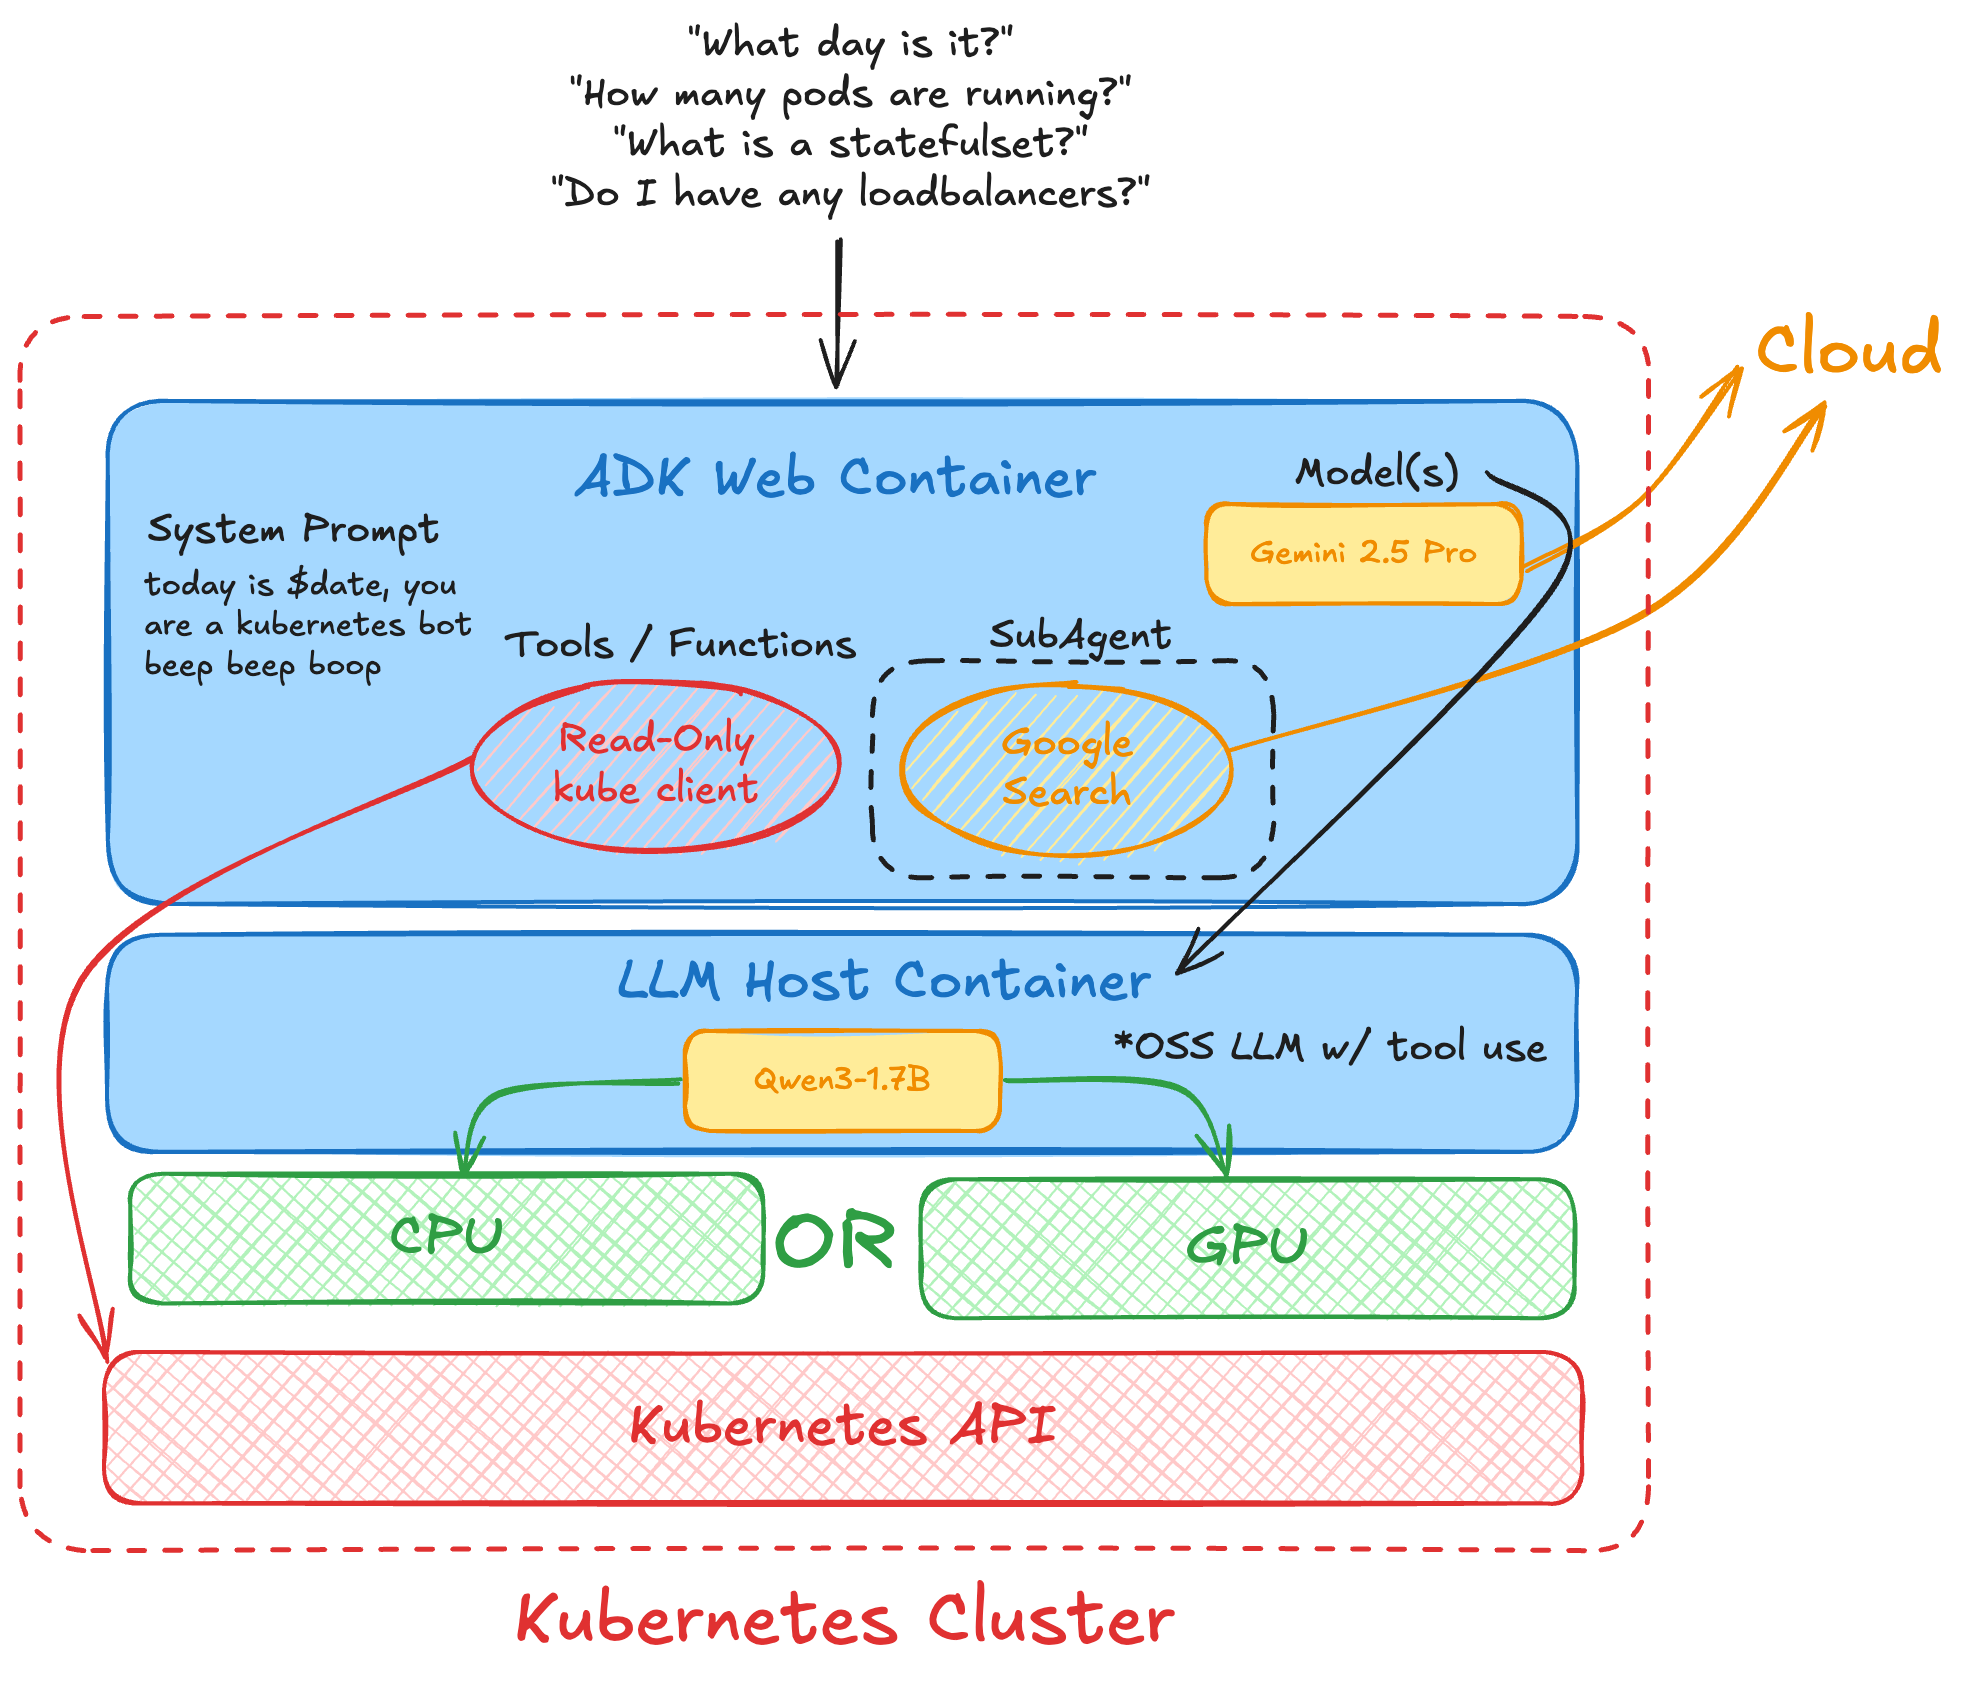
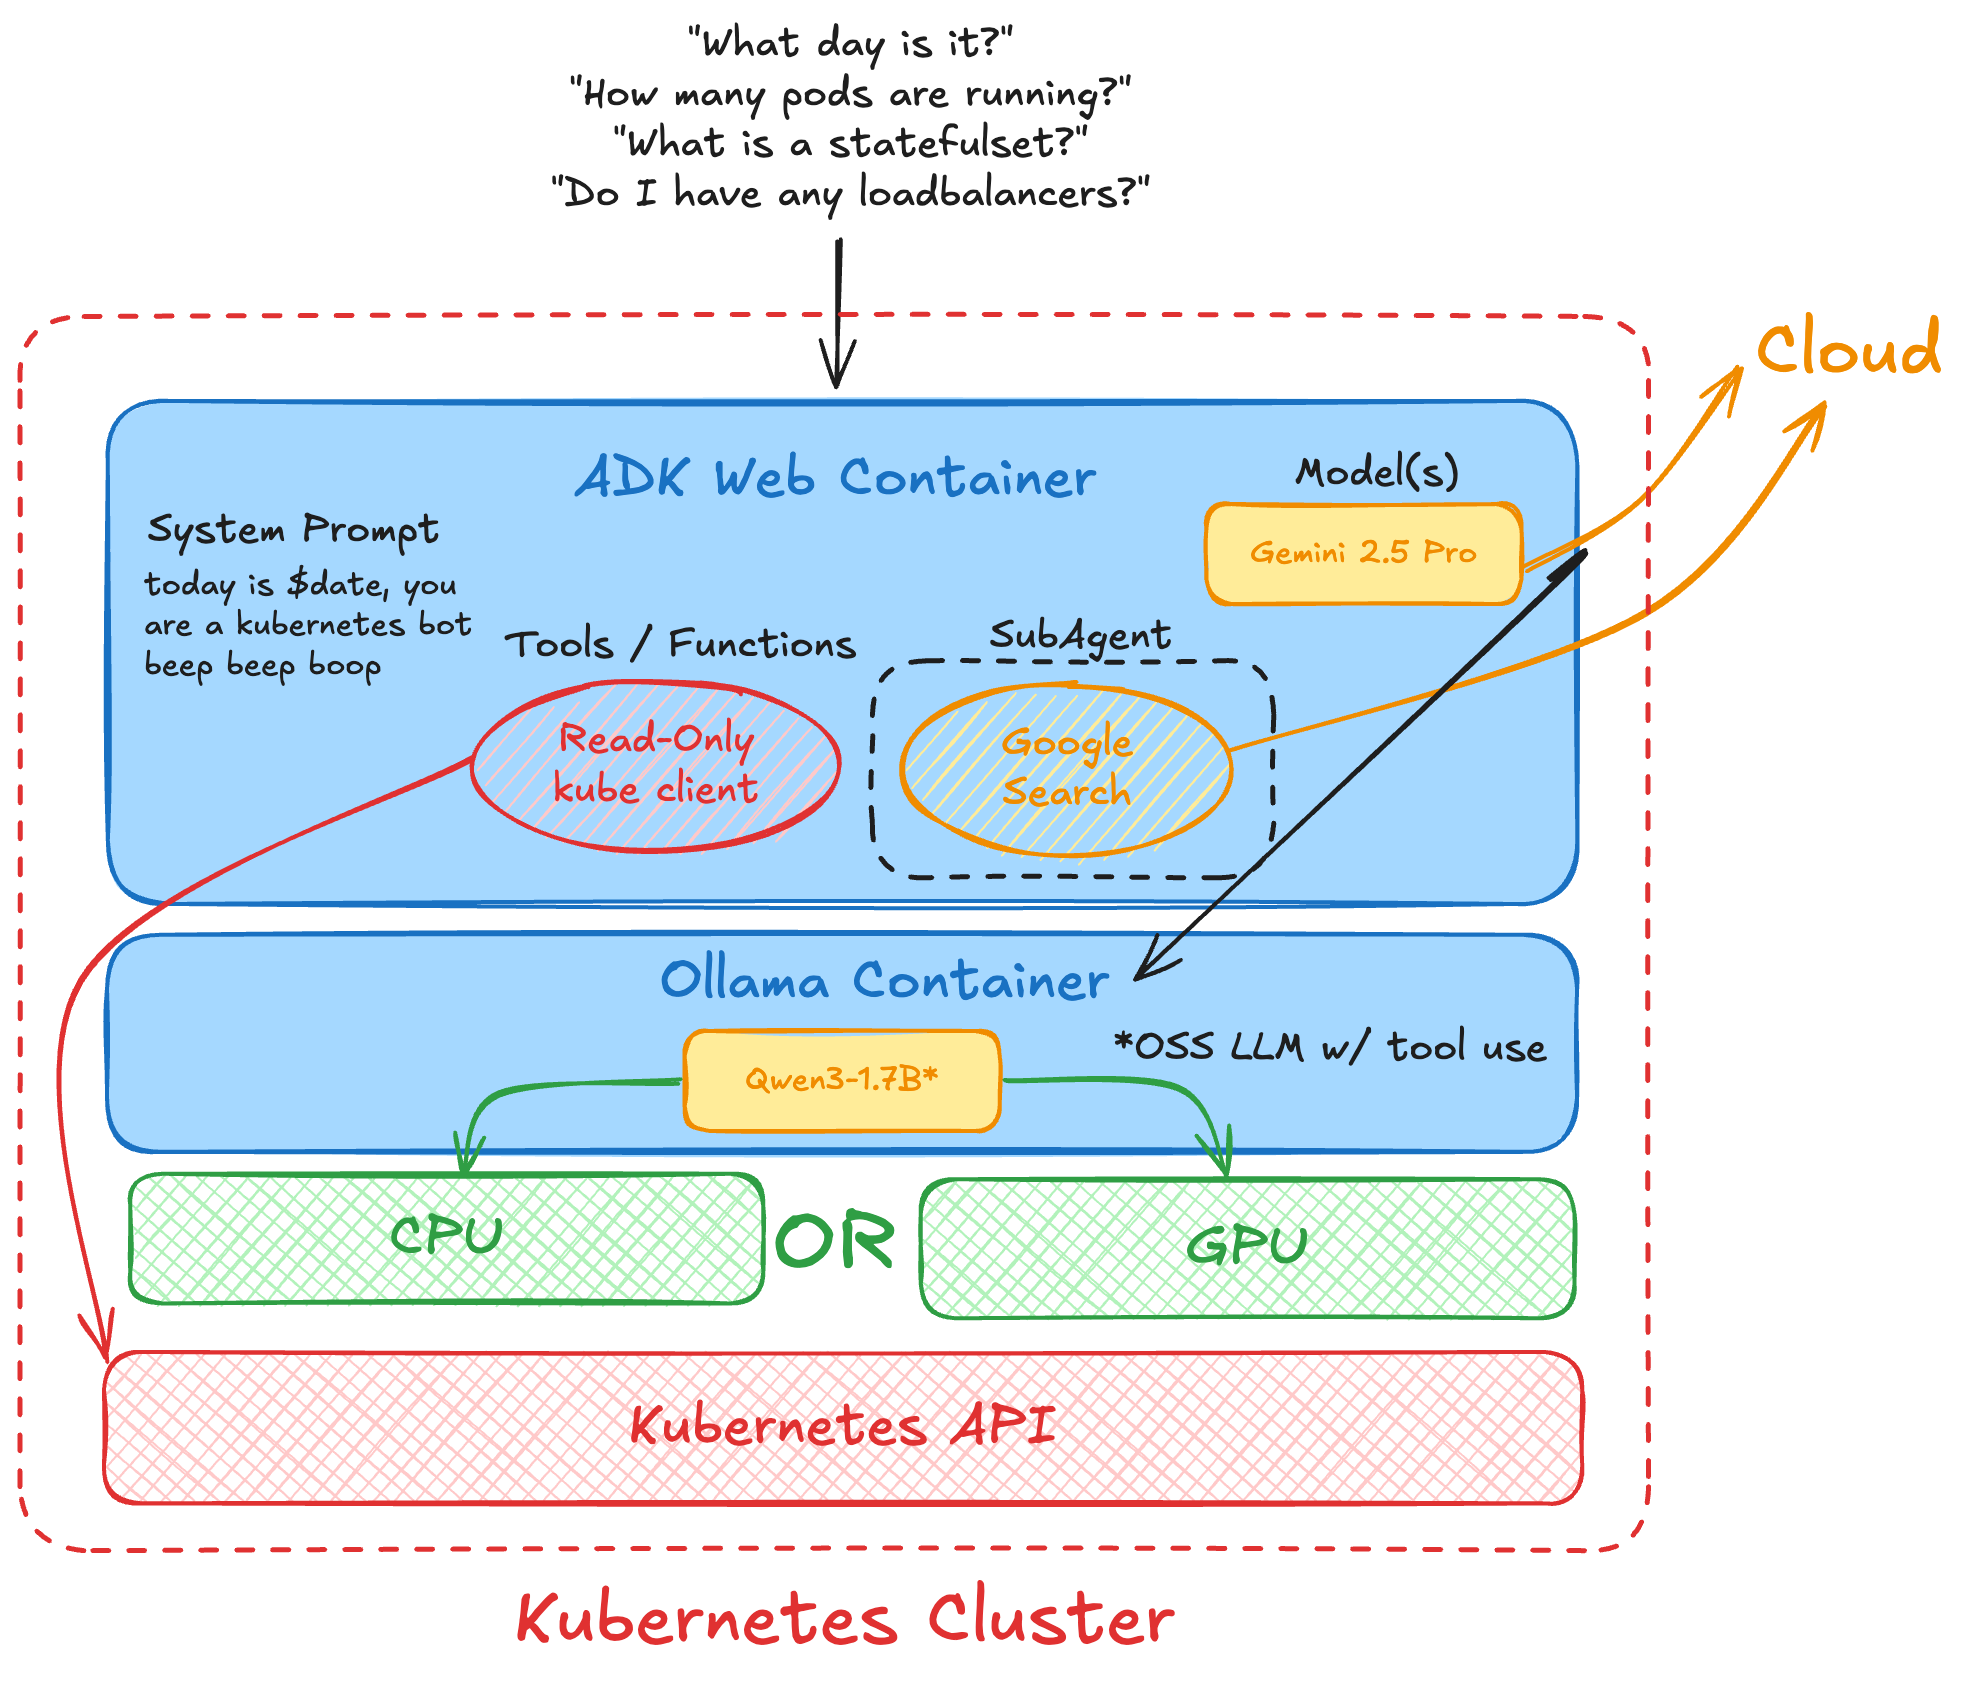
mvp

diff --git a/README.md b/README.md
@@ -2,7 +2,11 @@
 
 Google ADK agent for Kubernetes cluster interaction. Supports cloud (Google Gemini) and local (OpenAI-compatible) LLMs.
 
-![Architecture diagram](pics/arch.png)
+![Running on Kubernetes](pics/arch.png)
+
+ADK Web Container:
+
+![Architecture diagram](pics/adk-arch.png)
 
 ## Features
 
@@ -17,6 +21,29 @@ Google ADK agent for Kubernetes cluster interaction. Supports cloud (Google Gemi
 - Valid kubeconfig or in-cluster permissions
 - **Cloud LLM**: Google AI Studio API key
 - **Local LLM**: OpenAI-compatible endpoint (LM Studio, Ollama, etc.)
+
+## The importance of the `LLM_TYPE` variable
+
+The code is written to demonstrate both cloud and local LLM features. To switch between features you can set `cloud` or `local`. By setting:
+
+```bash
+LLM_TYPE=cloud
+```
+
+The ADK agent leverages the cloud (Gemini) and by setting:
+
+```bash
+LLM_TYPE=local
+```
+
+The agent leverages local LLM at the endpoint of:
+
+```bash
+LM_STUDIO_API_BASE=YOUR_HTTP_URL_V1_API
+LM_STUDIO_MODEL=YOUR_MODEL_REF
+```
+
+Look at the `.env-sample` for more ideas, most of these variables are set in the `docker run` command or in the kubernetes yaml.
 
 ## Quick Start
 
@@ -47,9 +74,20 @@ docker run \
 
 # Access UI: http://localhost:8082
 
+# Run using a local LLM (ollama) - or use the host / service name in cluster ollama.svc.xxx
+
+# (optional) run ollama instance
+docker run -d --name ollama --platform=linux/arm64/v8 \
+  -p 11434:11434 -v ollama:/root/.ollama ollama/ollama:latest
+
+docker exec -it ollama ollama pull qwen3:1.7b
+
 # Run using a local LLM
-export LM_STUDIO_API_BASE=http://127.0.0.1:1234/v1/
-export LM_STUDIO_MODEL=qwen/qwen3-1.7b
+export LM_STUDIO_API_BASE=http://localhost:11434/v1/
+# export LM_STUDIO_API_BASE=http://127.0.0.1:1234/v1/
+
+#export LM_STUDIO_MODEL=qwen/qwen3-1.7b # for LM Studio
+export LM_STUDIO_MODEL=qwen3:1.7b # for Ollama
 
 docker run \
   --name adk-local-test \
@@ -77,21 +115,81 @@ The `k8s-deployment.yaml` includes:
 - ClusterRole and ClusterRoleBinding
 - Deployment configuration
 
+![Running on Kubernetes](pics/arch.png)
+
+Optionally deploy a local Ollama server:
+
+```bash
+cat <<EOF | kubectl apply -f -
+apiVersion: apps/v1
+kind: Deployment
+metadata:
+  name: ollama
+spec:
+  replicas: 1
+  selector:
+    matchLabels:
+      app: ollama
+  template:
+    metadata:
+      labels:
+        app: ollama
+    spec:
+      containers:
+        - name: ollama
+          image: ollama/ollama:latest
+          ports:
+            - containerPort: 11434
+          volumeMounts:
+            - name: ollama-data
+              mountPath: /root/.ollama
+      volumes:
+        - name: ollama-data
+          emptyDir: {}
+---
+apiVersion: v1
+kind: Service
+metadata:
+  name: ollama
+spec:
+  selector:
+    app: ollama
+  ports:
+    - port: 11434
+      targetPort: 11434
+      protocol: TCP
+  type: ClusterIP
+EOF
+
+# wait for it to ready up:
+kubectl get pods --watch
+
+# pull a model to use:
+kubectl exec -it deploy/ollama -- ollama pull qwen3:1.7b
+```
+
 **Deploy:**
 ```bash
-export GOOGLE_API_KEY="your-api-key"
+# Clone repo
+git clone https://github.com/jimangel/adk-local-gemma.git
+cd adk-local-gemma
 
-# 1. Create API key secret
+# (optional, or if using cloud) create API key secret
+export GOOGLE_API_KEY="your-api-key"
 kubectl create secret generic adk-secrets \
   --from-literal=GOOGLE_API_KEY=${GOOGLE_API_KEY}
+```
 
-# 2. Apply manifest
+> **Tweaking / Configuration:** Modify environment variables in `k8s-deployment.yaml` (like model path / etc if needed)
+
+```bash
+# Apply manifest (defaults to local)
 kubectl apply -f k8s-deployment.yaml
 ```
 
 **Access service:**
 ```bash
-# Option A: Port forward
+# Port forward
 kubectl port-forward svc/adk-local-gemma 8081:8081
 ```
 
@@ -104,16 +202,5 @@ kubectl delete secret adk-secrets
 kubectl exec -it deploy/adk-local-gemma -- sh
 ```
 
-**Tweaking / Configuration:**
 
-Modify environment variables in `k8s-deployment.yaml`:
 
-```yaml
-env:
-- name: LLM_TYPE
-  value: "local"  # or "local"
-- name: LM_STUDIO_MODEL
-  value: "qwen/qwen3-1.7b"
-- name: LM_STUDIO_API_BASE
-  value: "http://127.0.0.1:1234/v1"  # for local LLMs
-```

diff --git a/CONTRIBUTING.md b/CONTRIBUTING.md
@@ -140,3 +140,23 @@ docker tag adk-local-gemma:latest ghcr.io/jimangel/adk-local-gemma:latest
 # Push to registry
 docker push ghcr.io/jimangel/adk-local-gemma:latest
 ```
+
+
+---
+
+
+## local model cpu
+
+```bash
+docker run -d --name ollama --platform=linux/arm64/v8 \
+  -p 11434:11434 -v ollama:/root/.ollama ollama/ollama:latest
+
+docker exec -it ollama ollama pull qwen3:1.7b
+
+curl -sS http://localhost:11434/api/generate \
+  -H "Content-Type: application/json" \
+  -d '{"model":"qwen3:1.7b","prompt":"Say hello in one sentence.","stream":false}'
+
+# use
+http://localhost:11434/v1
+```
